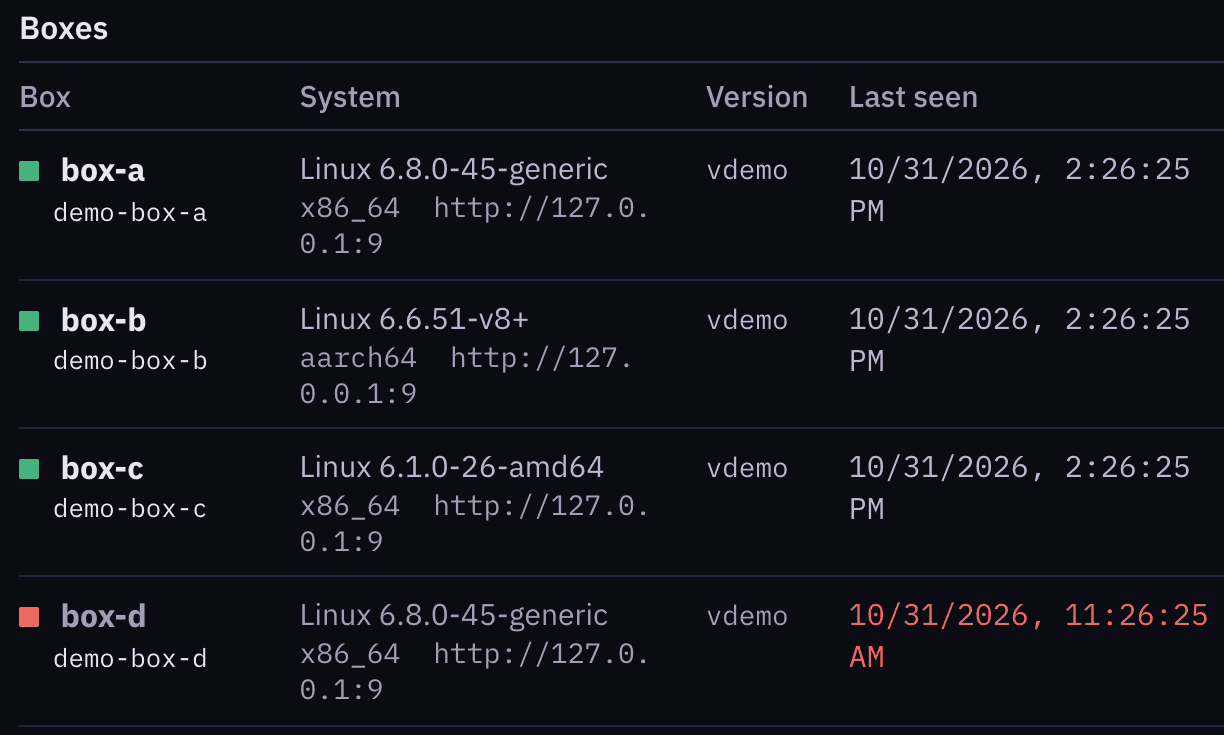
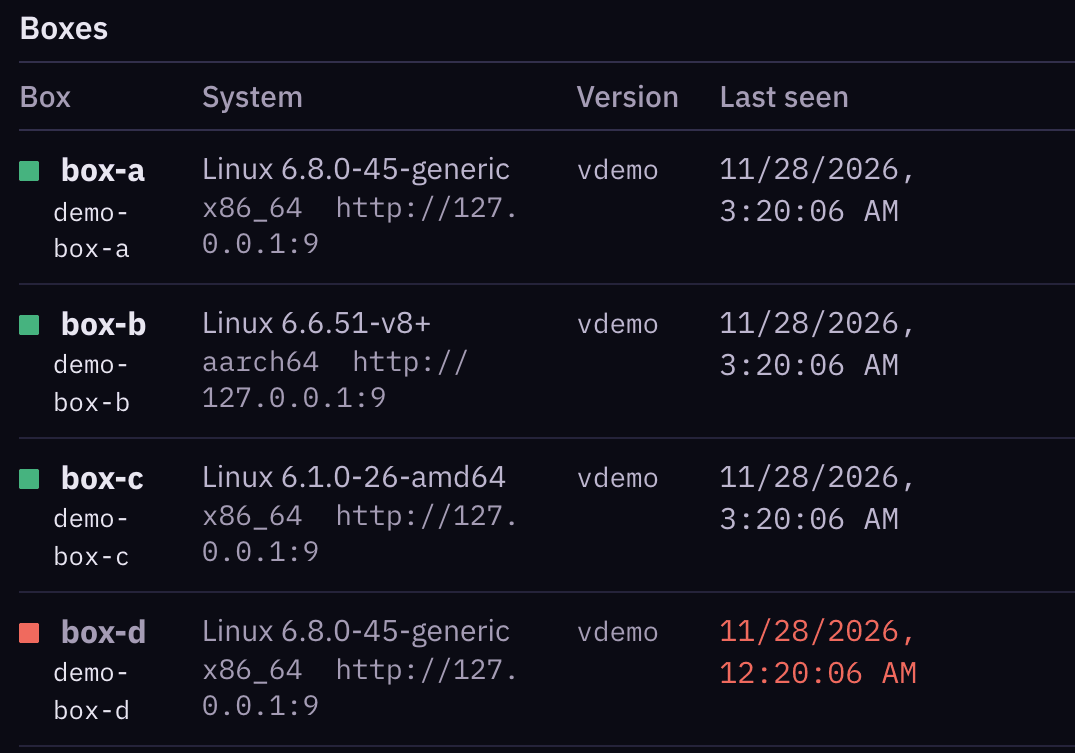
fix(tour): show the retaken fleet screen, dated today instead of October
The fleet screen in A look inside dated every box 10/31/2026. It now comes
from the fleet screenshot retaken in CashPilot. The page grew since then,
so the crop box is narrower and taller: it still holds the four boxes and
their last report, and no longer cuts into the Power draw column.

diff --git a/scripts/prepare-images.ts b/scripts/prepare-images.ts
@@ -27,7 +27,7 @@ const crops: [string, string, Box | null][] = [
   [`${desktop}/docs/images/screenshots/02-dashboard.png`, "desktop-dashboard.png", screen],
   [`${android}/app/src/test/screenshots/screens/home_healthy_dark.png`, "android-home.png", null],
   // Crops for the tour.
-  [`${shots}/fleet.png`, "fleet-crop.png", { left: 29, top: 497, width: 1224, height: 735 }],
+  [`${shots}/fleet.png`, "fleet-crop.png", { left: 29, top: 497, width: 1075, height: 753 }],
   [`${shots}/catalog.png`, "catalog-crop.png", { left: 29, top: 202, width: 1411, height: 857 }],
   [`${shots}/payouts.png`, "payouts-crop.png", { left: 43, top: 666, width: 1498, height: 530 }],
   [`${desktop}/docs/images/screenshots/02-dashboard.png`, "desktop-crop.png", { left: 0, top: 0, width: 1555, height: 533 }],
